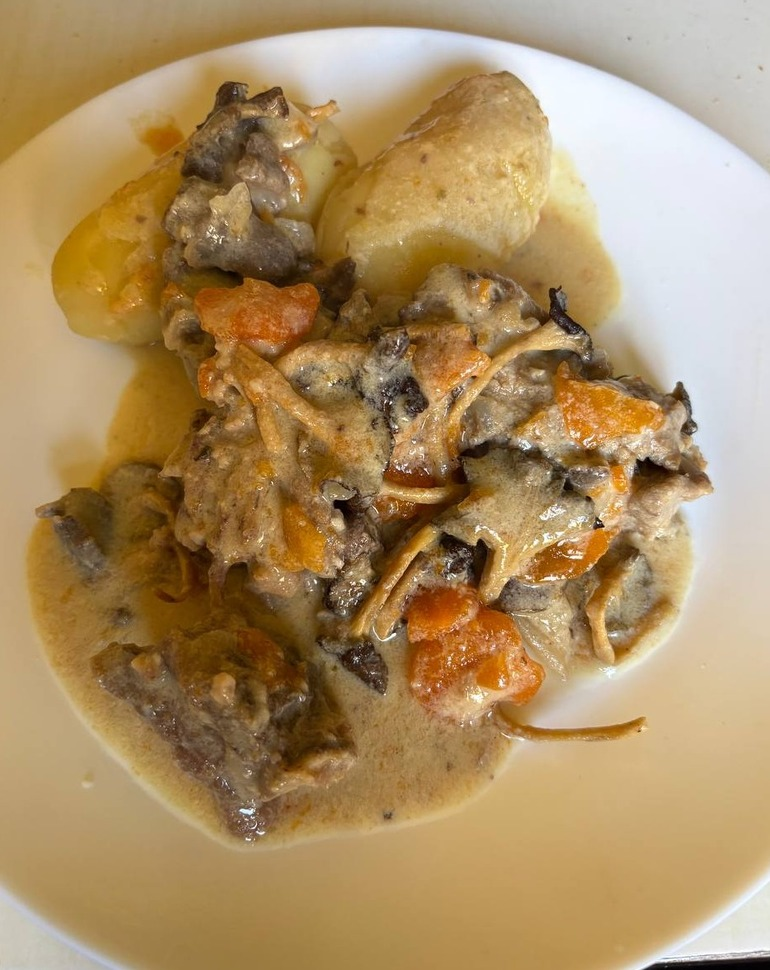
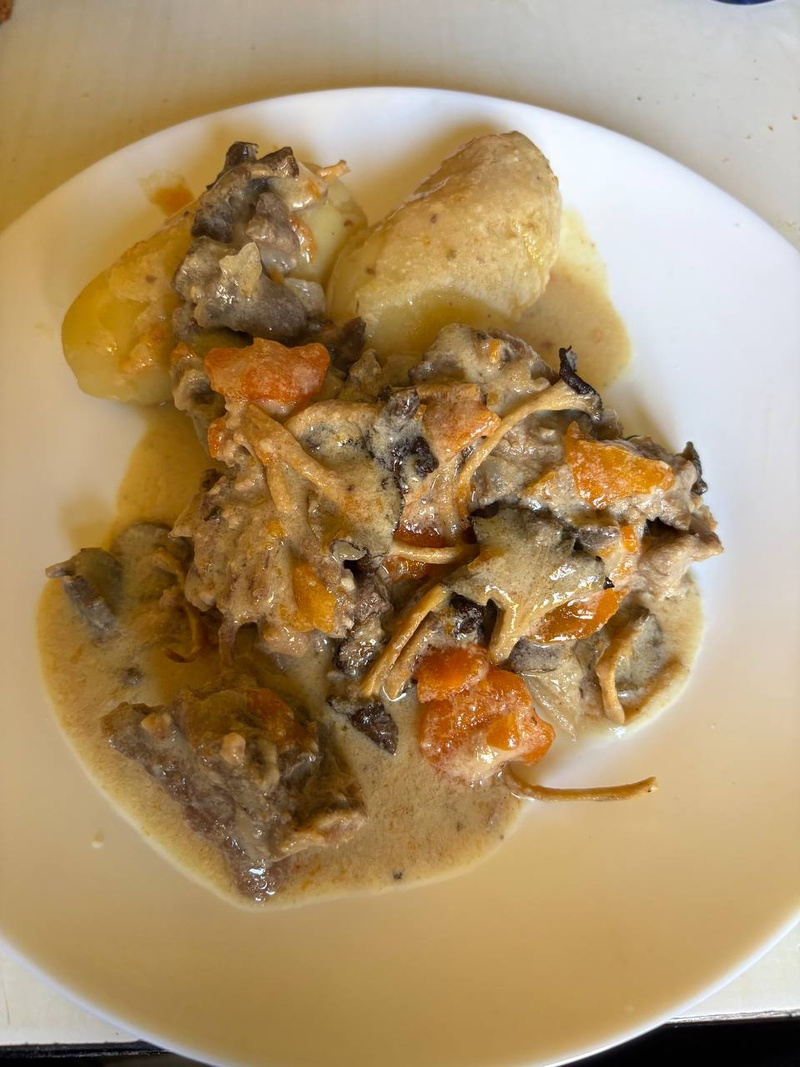
blanquette: photos originales + object-fit contain (montrer image entière)

diff --git a/recettes/blanquette-chevreau.html b/recettes/blanquette-chevreau.html
@@ -19,8 +19,8 @@
             <!-- Carrousel photos (swipe) -->
             <div class="recipe-hero-image" style="position:relative;overflow:hidden;">
                 <div class="photo-carousel" style="display:flex;transition:transform 0.3s ease;touch-action:pan-y;">
-                    <img src="../images/blanquette-chevreau-assiette.jpg" alt="Blanquette de chevreau - servie avec PDT vapeur" style="min-width:100%;height:100%;object-fit:cover;object-position:center center;border-radius:16px;">
-                    <img src="../images/blanquette-chevreau.jpg" alt="Blanquette de chevreau - la cocotte" style="min-width:100%;height:100%;object-fit:cover;object-position:center center;border-radius:16px;">
+                    <img src="../images/blanquette-chevreau-assiette.jpg" alt="Blanquette de chevreau - servie avec PDT vapeur" style="min-width:100%;height:auto;object-fit:contain;border-radius:16px;">
+                    <img src="../images/blanquette-chevreau.jpg" alt="Blanquette de chevreau - la cocotte" style="min-width:100%;height:auto;object-fit:contain;border-radius:16px;">
                 </div>
                 <!-- Indicateurs -->
                 <div style="position:absolute;bottom:12px;left:50%;transform:translateX(-50%);display:flex;gap:8px;">
